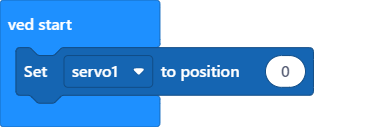
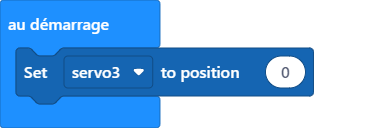
Mise à jour pxt.json, main.blocks, main.ts, fireflyTestV3.ts

diff --git a/fireflyTestV3.ts b/fireflyTestV3.ts
@@ -1,3 +1,16 @@
+enum SevoPinValues2 {
+    //% block=servo1
+    sevo1 = 1,
+    //% block=servo2
+    sevo2 = 2,
+    //% block=servo3
+    sevo3 = 3,
+    //% block=servo4
+    sevo4 = 4
+}
+
+
+
 /**
  * Blocks for driving servo and DC motors, using the Firefly connection Board
  */
@@ -55,10 +68,10 @@ namespace Firefly {
     }
 
     //% blockId=set_servo
-    //% block="Set %servoAtPin| to position %angle"
+    //% block="Set %sevoAtPin2| to position %angle"
     //% group="Servo Motor"
     //% angle.min=0 angle.max=138 angle.defl=0
-    export function setServo(servoAtPin: ServoPinValues, angle: number): void {
+    export function setServo(servoAtPin: SevoPinValues2, angle: number): void {
         adjustMotorType("servo")
 
         switch(servoAtPin) {

diff --git a/main.ts b/main.ts
@@ -1,1 +1,1 @@
-Firefly.setServo(Firefly.ServoPinValues.servo1, 0)
+Firefly.setServo(SevoPinValues2.sevo3, 0)
